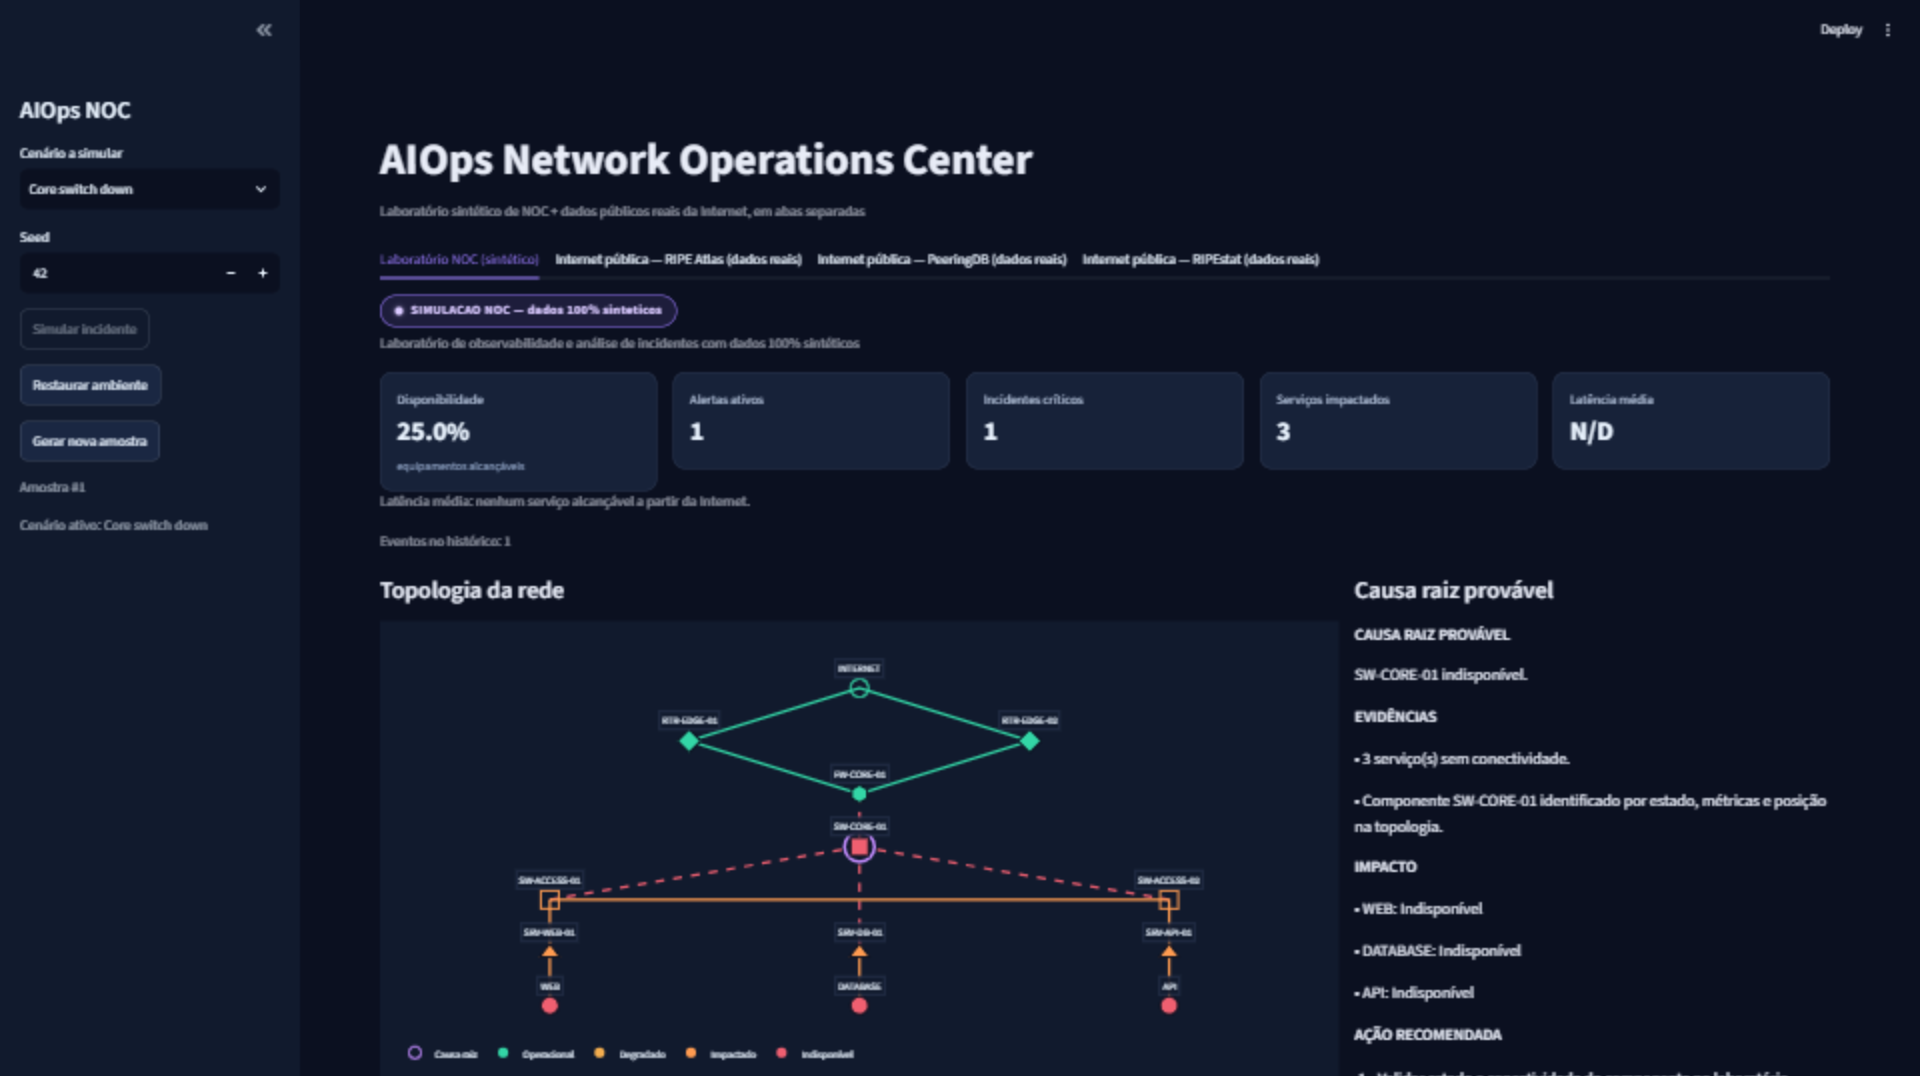
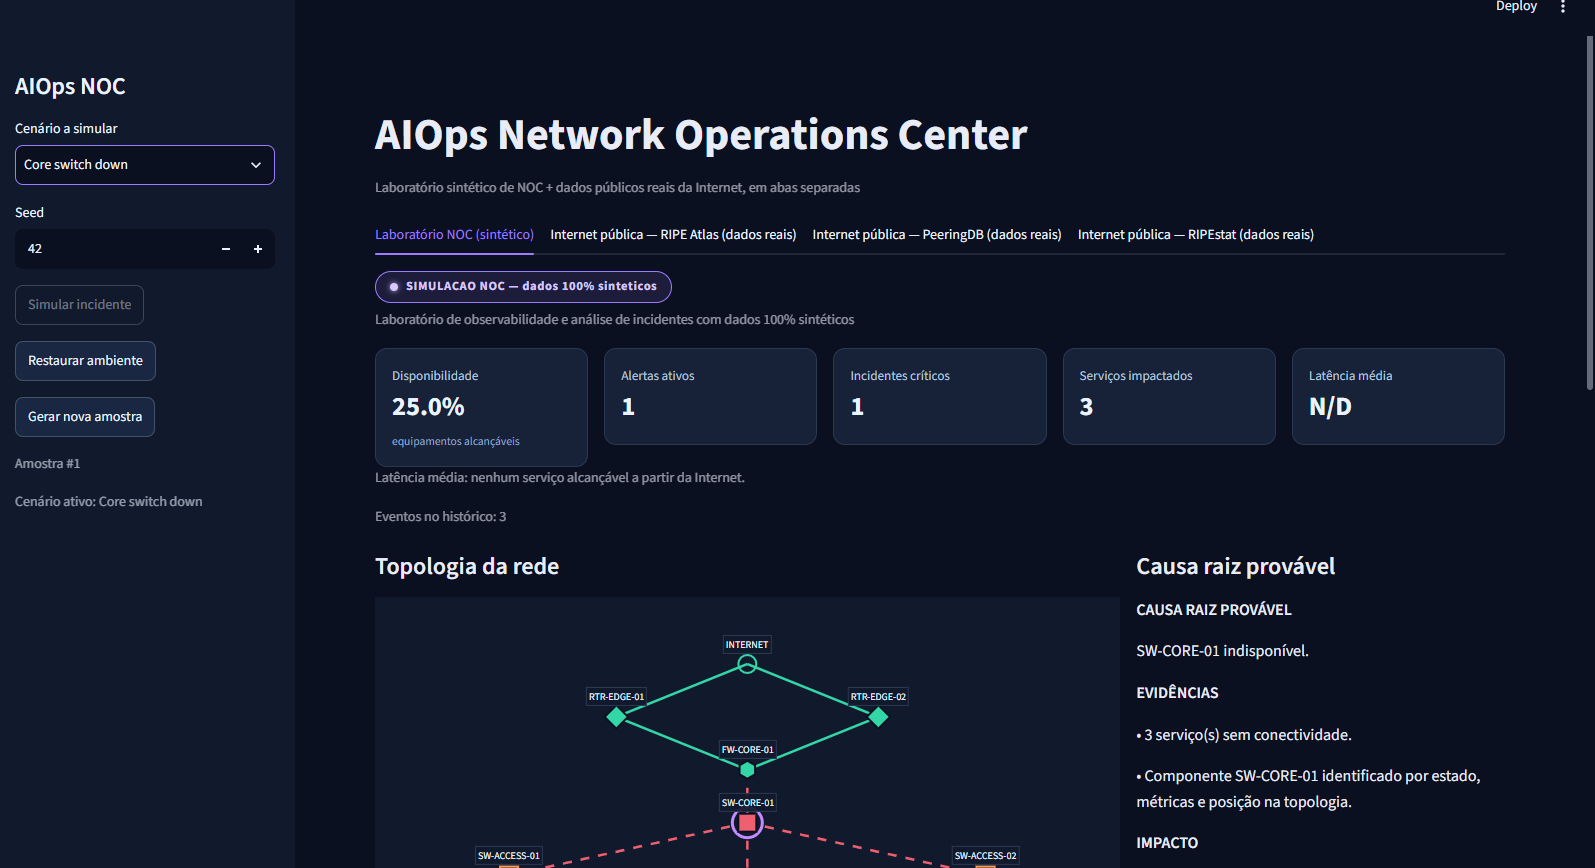
docs: recaptura dos screenshots com zoom 100%
As capturas anteriores saíram borradas (canvas com zoom reduzido).
Novas imagens nítidas em viewport 1600x900; a do RIPEstat mostra a
tabela por ASN.

diff --git a/README.md b/README.md
@@ -81,7 +81,7 @@ Todos os valores abaixo foram medidos com **seed 42, variante 0**, via `compute_
 
 ## Screenshots
 
-Capturas de 24/09/2026 (seed `42`, 1920x1080):
+Capturas de 24/09/2026 (seed `42`, viewport 1600x900):
 
 ![Laboratório NOC — cenário Normal](assets/noc-normal.png)
 ![Laboratório NOC — Core switch down com RCA](assets/noc-core-down.png)
